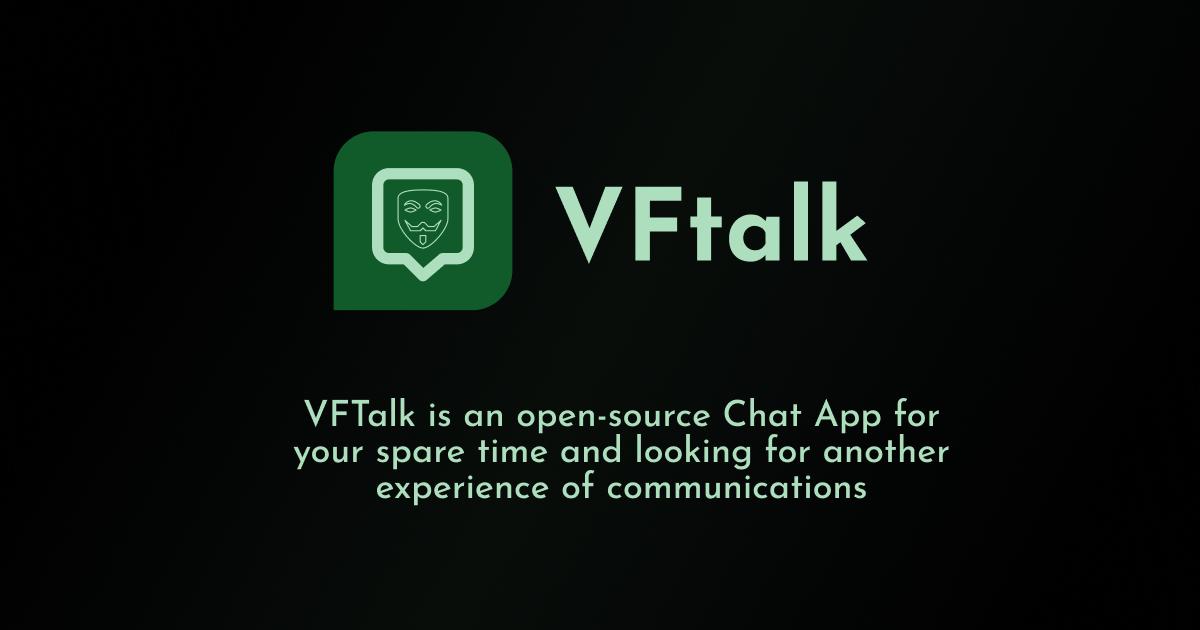
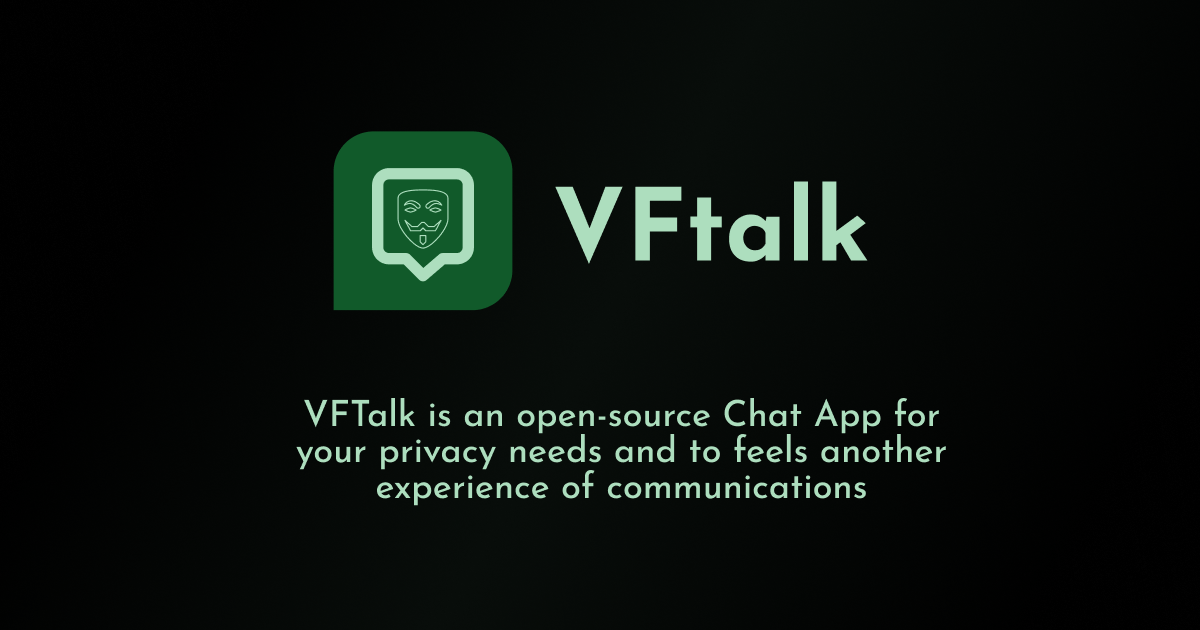
update

Changed region(s): [[0.2467, 0.6937, 0.8017, 0.754]]

diff --git a/views/static/css/main.tmp.css b/views/static/css/main.tmp.css
@@ -592,6 +592,10 @@ video {
   position: relative;
 }
 
+.-left-\[270px\] {
+  left: -270px;
+}
+
 .bottom-0 {
   bottom: 0px;
 }
@@ -624,14 +628,6 @@ video {
   top: 7rem;
 }
 
-.-left-\[300px\] {
-  left: -300px;
-}
-
-.-left-\[270px\] {
-  left: -270px;
-}
-
 .z-10 {
   z-index: 10;
 }
@@ -640,16 +636,16 @@ video {
   z-index: 40;
 }
 
+.z-50 {
+  z-index: 50;
+}
+
 .z-\[100\] {
   z-index: 100;
 }
 
 .z-\[200\] {
   z-index: 200;
-}
-
-.z-50 {
-  z-index: 50;
 }
 
 .m-1 {
@@ -763,12 +759,12 @@ video {
   max-height: 100vh;
 }
 
-.min-h-\[70dvh\] {
-  min-height: 70dvh;
-}
-
 .min-h-\[90dvh\] {
   min-height: 90dvh;
+}
+
+.w-10\/12 {
+  width: 83.333333%;
 }
 
 .w-11 {
@@ -803,10 +799,6 @@ video {
   width: 2rem;
 }
 
-.w-8\/12 {
-  width: 66.666667%;
-}
-
 .w-9 {
   width: 2.25rem;
 }
@@ -829,6 +821,10 @@ video {
 
 .w-\[23px\] {
   width: 23px;
+}
+
+.w-\[270px\] {
+  width: 270px;
 }
 
 .w-\[320px\] {
@@ -858,18 +854,6 @@ video {
 
 .w-full {
   width: 100%;
-}
-
-.w-10\/12 {
-  width: 83.333333%;
-}
-
-.w-\[300px\] {
-  width: 300px;
-}
-
-.w-\[270px\] {
-  width: 270px;
 }
 
 .flex-auto {
@@ -1098,6 +1082,10 @@ video {
   background-color: rgb(0 0 0 / 0.4);
 }
 
+.bg-black\/50 {
+  background-color: rgb(0 0 0 / 0.5);
+}
+
 .bg-black\/60 {
   background-color: rgb(0 0 0 / 0.6);
 }
@@ -1113,10 +1101,6 @@ video {
 
 .bg-transparent {
   background-color: transparent;
-}
-
-.bg-black\/50 {
-  background-color: rgb(0 0 0 / 0.5);
 }
 
 .bg-gradient-to-tr {
@@ -1166,6 +1150,10 @@ video {
   stroke: #ef4444;
 }
 
+.p-2 {
+  padding: 0.5rem;
+}
+
 .p-3 {
   padding: 0.75rem;
 }
@@ -1182,16 +1170,12 @@ video {
   padding: 1.5rem;
 }
 
-.p-9 {
-  padding: 2.25rem;
-}
-
 .p-7 {
   padding: 1.75rem;
 }
 
-.p-2 {
-  padding: 0.5rem;
+.p-9 {
+  padding: 2.25rem;
 }
 
 .px-16 {
@@ -1229,9 +1213,9 @@ video {
   padding-bottom: 0.5rem;
 }
 
-.py-28 {
-  padding-top: 7rem;
-  padding-bottom: 7rem;
+.py-20 {
+  padding-top: 5rem;
+  padding-bottom: 5rem;
 }
 
 .py-3 {
@@ -1254,19 +1238,14 @@ video {
   padding-bottom: 1.5rem;
 }
 
-.py-9 {
-  padding-top: 2.25rem;
-  padding-bottom: 2.25rem;
-}
-
-.py-20 {
-  padding-top: 5rem;
-  padding-bottom: 5rem;
-}
-
 .py-8 {
   padding-top: 2rem;
   padding-bottom: 2rem;
+}
+
+.py-9 {
+  padding-top: 2.25rem;
+  padding-bottom: 2.25rem;
 }
 
 .pl-16 {
@@ -1316,8 +1295,8 @@ video {
   line-height: 2.5rem;
 }
 
-.text-7xl {
-  font-size: 4.5rem;
+.text-6xl {
+  font-size: 3.75rem;
   line-height: 1;
 }
 
@@ -1344,16 +1323,6 @@ video {
 .text-xl {
   font-size: 1.25rem;
   line-height: 1.75rem;
-}
-
-.text-5xl {
-  font-size: 3rem;
-  line-height: 1;
-}
-
-.text-6xl {
-  font-size: 3.75rem;
-  line-height: 1;
 }
 
 .font-bold {
@@ -1465,12 +1434,8 @@ video {
   transition-duration: 150ms;
 }
 
-.duration-200 {
-  transition-duration: 200ms;
-}
-
-.duration-75 {
-  transition-duration: 75ms;
+:root {
+  color-scheme: dark;
 }
 
 *, :after, :before {
@@ -1852,14 +1817,6 @@ html {
     width: 91.666667%;
   }
 
-  .md\:w-\[440px\] {
-    width: 440px;
-  }
-
-  .md\:w-\[660px\] {
-    width: 660px;
-  }
-
   .md\:w-8\/12 {
     width: 66.666667%;
   }
@@ -1868,22 +1825,33 @@ html {
     width: 75%;
   }
 
+  .md\:w-\[440px\] {
+    width: 440px;
+  }
+
+  .md\:w-\[660px\] {
+    width: 660px;
+  }
+
   .md\:p-8 {
     padding: 2rem;
   }
 
-  .md\:py-28 {
-    padding-top: 7rem;
-    padding-bottom: 7rem;
+  .md\:pb-24 {
+    padding-bottom: 6rem;
   }
 
-  .md\:text-7xl {
-    font-size: 4.5rem;
-    line-height: 1;
+  .md\:pt-40 {
+    padding-top: 10rem;
   }
 
   .md\:text-2xl {
     font-size: 1.5rem;
     line-height: 2rem;
+  }
+
+  .md\:text-7xl {
+    font-size: 4.5rem;
+    line-height: 1;
   }
 }

diff --git a/views/static/css/main.css b/views/static/css/main.css
@@ -2,6 +2,10 @@
 @tailwind components;
 @tailwind utilities;
 
+:root {
+  color-scheme: dark;
+}
+
 *, :after, :before {
   --tw-translate-x: 0;
   --tw-translate-y: 0;

diff --git a/presentation/webViews.go b/presentation/webViews.go
@@ -15,12 +15,14 @@ func WebViews(app *fiber.App) {
 		err := conf.TokenValid(c)
 		if err != nil {
 			currentTime := time.Now().UTC()
-			// createdTime := time.Date(2023, time.December, 1, 10, 26, 0, 0, time.UTC)
-			// OG_createdAt := createdTime.Format("2006-01-02T15:04:05Z")
+			createdTime := time.Date(2023, time.December, 1, 10, 26, 0, 0, time.UTC)
+			OG_createdAt := createdTime.Format("2006-01-02T15:04:05Z")
 			OG_updatedAt := currentTime.Format("2006-01-02T15:04:05Z")
 			return c.Render("landingpage", fiber.Map{
-				"Title":        "VFTalk",
-				"OG_UpdatedAt": OG_updatedAt,
+				"Title":       "VFTalk",
+				`Description`: "VFTalk is an open-source Chat App for your privacy needs and to feels another experience of communications",
+				`UpdatedAt`:   OG_updatedAt,
+				`CreatedAt`:   OG_createdAt,
 			})
 		} else {
 			u, _ := conf.GetUsernameFromJWT(c)
